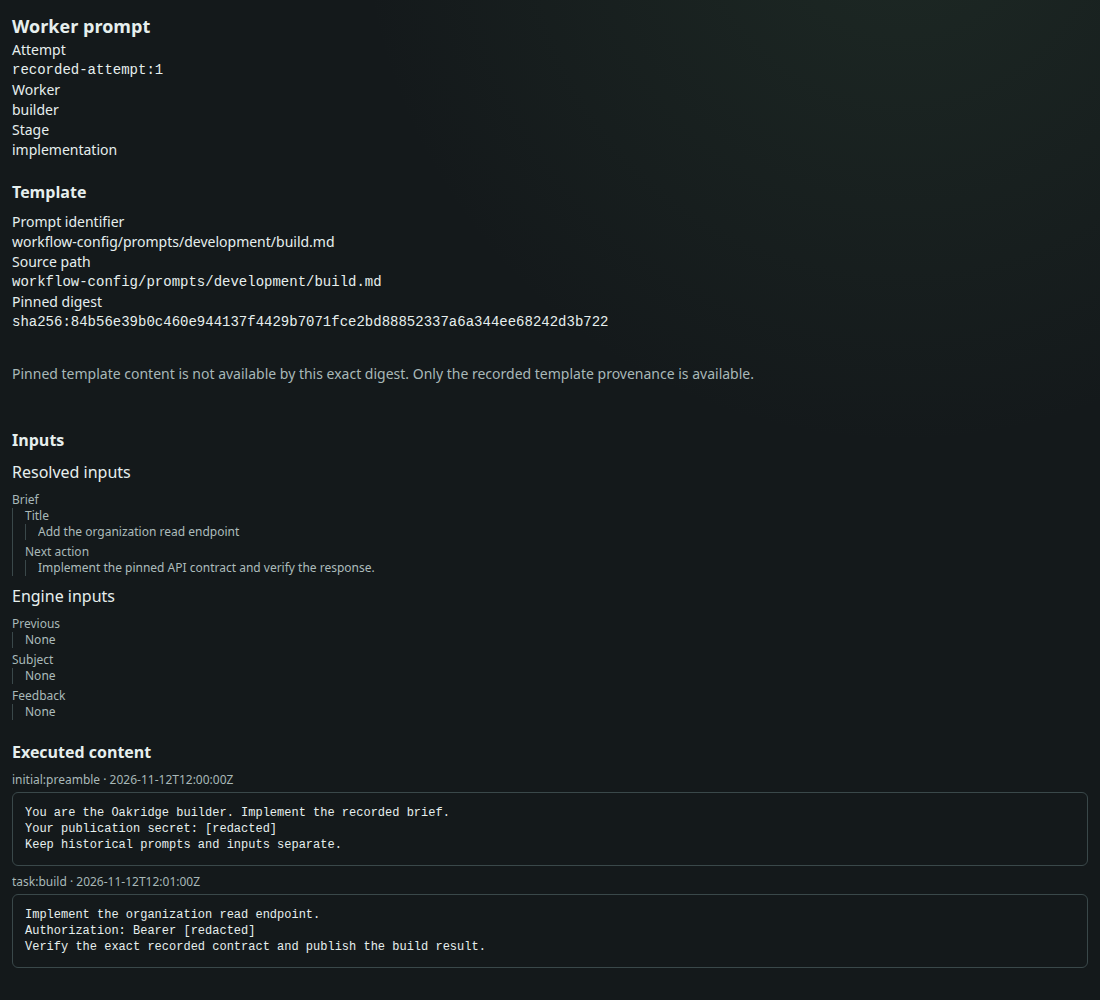
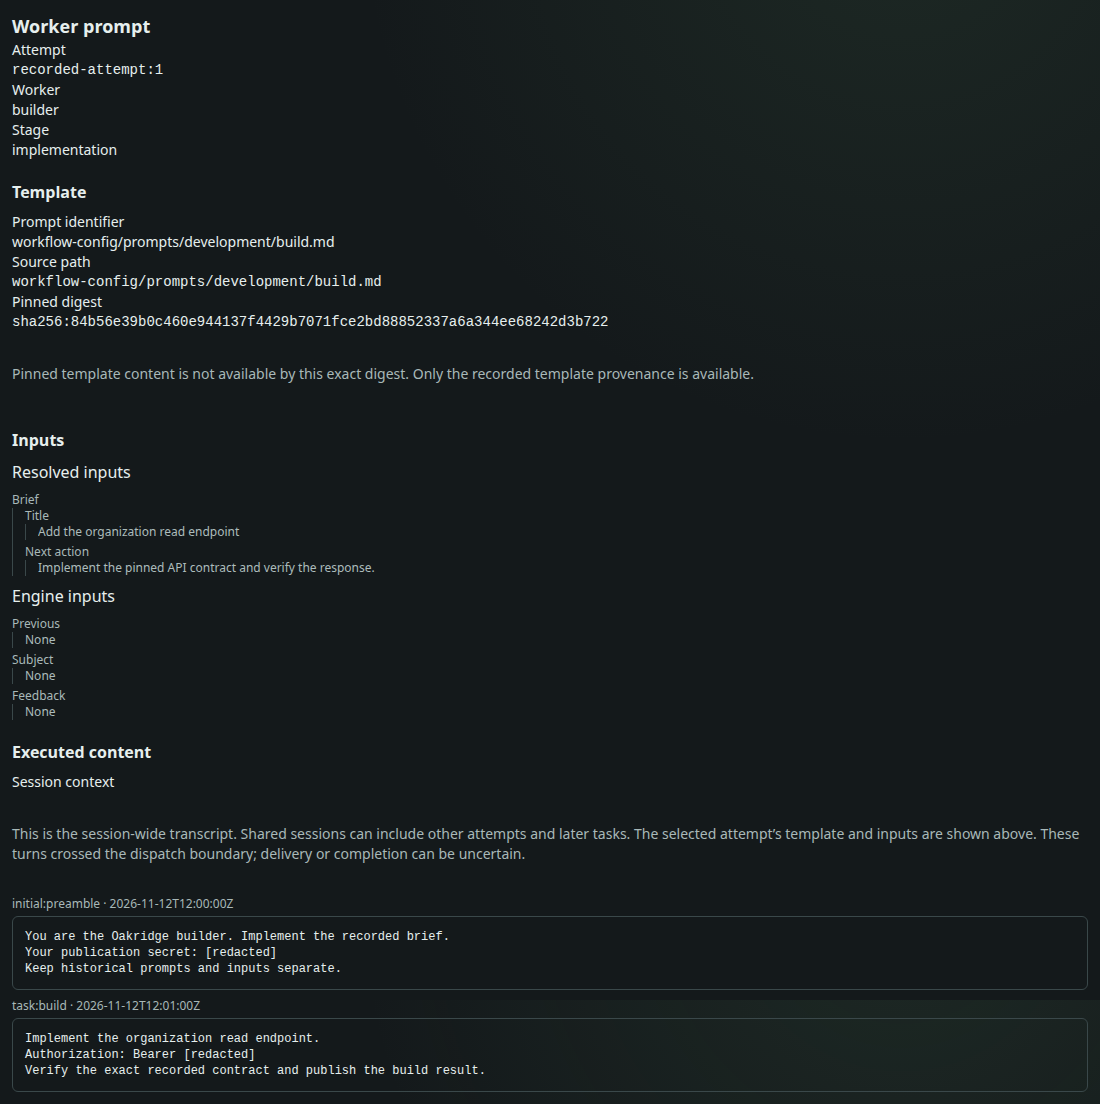
Clarify shared-session prompt context and refresh retained turns

Changed region(s): [[0.0, 0.0, 0.68, 0.713], [0.0, 0.744, 0.9891, 0.992]]

diff --git a/kbbl/core/pwa/oakridge/__tests__/prompt-viewer.test.tsx b/kbbl/core/pwa/oakridge/__tests__/prompt-viewer.test.tsx
@@ -9,18 +9,22 @@ import { readExecutedPrompt } from "../client";
 import { selectStageInputs } from "../lib/stage-overview";
 import { formatRunWorkspaceHash, readHashRoute } from "../../lib/hash";
 import { readStoredRunWorkspace, writeStoredRunWorkspace } from "../lib/run-workspace-storage";
+import type { ExecutedPromptTurn } from "../../../executed-prompt";
+import type { TurnKey } from "../../../acp/types";
 
 const base = sampleUnits.find((unit) => unit.attempts.length > 0);
 if (!base?.attempts[0]) throw new Error("Prompt fixture requires a recorded attempt");
 const attempt = { ...base.attempts[0], kbbl_session_id: "retained-session", intent: { prompt: { path: "workflow-config/prompts/build.md", digest: "pinned-old-digest" }, inputs: { brief: "recorded brief" }, engine_inputs: { previous: null, subject: null, feedback: [] } } };
 const unit = { ...base, attempts: [attempt] };
 afterEach(() => { cleanup(); vi.restoreAllMocks(); localStorage.clear(); });
-function show(has_session = true, status = 200) {
+interface PromptFixture { readonly has_session?: boolean; readonly status?: number; readonly turns?: readonly ExecutedPromptTurn[] }
+const initial: ExecutedPromptTurn = { turn_id: "initial" as TurnKey, created_at: "2026-01-01", text: "Executed worker instructions\nYour publication secret: [redacted]" };
+function show({ has_session = true, status = 200, turns = [initial] }: PromptFixture = {}) {
   const recorded = { ...unit, attempts: [{ ...attempt, kbbl_session_id: has_session ? attempt.kbbl_session_id : null }] };
   const fetcher = vi.spyOn(globalThis, "fetch").mockImplementation(async (input) => {
     const path = String(input);
     return path.includes("executed-prompt")
-      ? Response.json(status === 404 ? { error: { code: "not_retained" } } : [{ turn_id: "initial", created_at: "2026-01-01", text: "Executed worker instructions\nYour publication secret: [redacted]" }], { status })
+      ? Response.json(status === 404 ? { error: { code: "not_retained" } } : turns, { status })
       : Response.json([recorded]);
   });
   render(<QueryClientProvider client={new QueryClient({ defaultOptions: { queries: { retry: false } } })}>
@@ -43,7 +47,7 @@ it("shows three read-only sections from pinned provenance, resolved inputs and t
   expect(fetcher.mock.calls.some(([path]) => /prompts|definitions/.test(String(path)))).toBe(false);
 });
 it.each([true, false])("states not retained while preserving provenance (has session: %s)", async (has_session) => {
-  const fetcher = show(has_session, 404);
+  const fetcher = show({ has_session, status: 404 });
   await screen.findByText("Executed content was not retained for this attempt.");
   expect(screen.getByText("pinned-old-digest")).toBeTruthy();
   if (!has_session) expect(fetcher.mock.calls.some(([path]) => String(path).includes("executed-prompt"))).toBe(false);
@@ -52,9 +56,20 @@ it("does not treat authorization or service failures as not retained", async () 
   vi.spyOn(globalThis, "fetch").mockResolvedValue(Response.json({ error: { code: "unauthorized" } }, { status: 401 }));
   await expect(readExecutedPrompt("sid")).rejects.toThrow("401");
 });
-it("selects only the recorded attempt and reports a missing attempt", () => {
-  expect(selectPromptView(unit, "missing")).toBeNull();
-  expect(selectPromptView(unit, attempt.id)?.template).toEqual({ identifier: attempt.intent.prompt.path, ...attempt.intent.prompt, content: null });
+it("selects the exact recorded unit and attempt without substituting another unit's prompt", () => {
+  const newer = { ...unit, unit_id: "different-unit", attempts: [{ ...attempt, intent: { ...attempt.intent, prompt: { path: "latest.md", digest: "newer-digest" } } }] };
+  const selection = { units: [newer, unit], unit_id: unit.unit_id, attempt_id: attempt.id };
+  expect(selectPromptView({ ...selection, unit_id: "missing" })).toBeNull();
+  expect(selectPromptView({ ...selection, attempt_id: "missing" })).toBeNull();
+  expect(selectPromptView(selection)?.template).toEqual({ identifier: attempt.intent.prompt.path, ...attempt.intent.prompt, content: null });
+});
+it("labels other shared-session tasks as session context rather than selected-attempt provenance", async () => {
+  show({ turns: [initial, { turn_id: "later-task" as TurnKey, created_at: "2026-01-02", text: "Later task for another collection member" }] });
+  await screen.findByText("Later task for another collection member");
+  expect(screen.getByRole("heading", { name: "Session context" })).toBeTruthy();
+  expect(screen.getByText(/Shared sessions can include other attempts and later tasks/)).toBeTruthy();
+  expect(screen.getByText("pinned-old-digest")).toBeTruthy();
+  expect(screen.queryByText("newer-digest")).toBeNull();
 });
 it("opens the recorded prompt beside the stage overview", () => {
   const onOpen = vi.fn();

diff --git a/kbbl/core/pwa/oakridge/hooks/useExecutedPrompt.test.tsx b/kbbl/core/pwa/oakridge/hooks/useExecutedPrompt.test.tsx
@@ -1,0 +1,49 @@
+import { act, cleanup, renderHook } from "@testing-library/react";
+import { QueryClient, QueryClientProvider } from "@tanstack/react-query";
+import type { PropsWithChildren } from "react";
+import { afterEach, expect, test, vi } from "vitest";
+import { useExecutedPrompt } from "./useExecutedPrompt";
+
+const clients: QueryClient[] = [];
+function wrapper() {
+  const client = new QueryClient({ defaultOptions: { queries: { retry: false, gcTime: Infinity } } });
+  clients.push(client);
+  return ({ children }: PropsWithChildren) => <QueryClientProvider client={client}>{children}</QueryClientProvider>;
+}
+const advance = async (milliseconds: number) => act(async () => { await vi.advanceTimersByTimeAsync(milliseconds); });
+afterEach(() => { cleanup(); clients.forEach((client) => client.clear()); clients.length = 0; vi.useRealTimers(); vi.restoreAllMocks(); });
+
+test("an open prompt transcript refreshes when later shared-session turns arrive", async () => {
+  vi.useFakeTimers();
+  let hasLaterTask = false;
+  vi.spyOn(globalThis, "fetch").mockImplementation(async () => Response.json([
+    { turn_id: "initial", created_at: "2026-01-01", text: "Retained preamble" },
+    ...(hasLaterTask ? [{ turn_id: "later-task", created_at: "2026-01-02", text: "Later task" }] : []),
+  ]));
+  const hook = renderHook(() => useExecutedPrompt("session"), { wrapper: wrapper() });
+  await advance(1);
+  expect(hook.result.current.data).toMatchObject({ state: "retained", turns: [{ turn_id: "initial" }] });
+  hasLaterTask = true;
+  await advance(10_001);
+  expect(hook.result.current.data).toMatchObject({ state: "retained", turns: [{ turn_id: "initial" }, { turn_id: "later-task" }] });
+});
+test("an open prompt recovers from not_retained after queued content crosses the dispatch boundary", async () => {
+  vi.useFakeTimers();
+  let isDispatched = false;
+  vi.spyOn(globalThis, "fetch").mockImplementation(async () => isDispatched
+    ? Response.json([{ turn_id: "initial", created_at: "2026-01-01", text: "Dispatched preamble" }])
+    : Response.json({ error: { code: "not_retained" } }, { status: 404 }));
+  const hook = renderHook(() => useExecutedPrompt("session"), { wrapper: wrapper() });
+  await advance(1);
+  expect(hook.result.current.data).toEqual({ state: "not_retained" });
+  isDispatched = true;
+  await advance(10_001);
+  expect(hook.result.current.data).toMatchObject({ state: "retained", turns: [{ text: "Dispatched preamble" }] });
+});
+test("prompt polling stays idle when the attempt has no retained session", async () => {
+  vi.useFakeTimers();
+  const fetch = vi.spyOn(globalThis, "fetch");
+  renderHook(() => useExecutedPrompt(null), { wrapper: wrapper() });
+  await advance(30_000);
+  expect(fetch).not.toHaveBeenCalled();
+});

diff --git a/kbbl/core/pwa/oakridge/components/organisms/PromptViewer.tsx b/kbbl/core/pwa/oakridge/components/organisms/PromptViewer.tsx
@@ -7,8 +7,7 @@ import { StructuredValue } from "../molecules/StructuredValue";
 interface Props { runId: string; unitId: string; attemptId: string }
 export function PromptViewer({ runId, unitId, attemptId }: Props) {
   const units = useOperatorUnits(runId);
-  const unit = units.data?.find((candidate) => candidate.unit_id === unitId);
-  const view = unit ? selectPromptView(unit, attemptId) : null;
+  const view = selectPromptView({ units: units.data ?? [], unit_id: unitId, attempt_id: attemptId });
   const executed = useExecutedPrompt(view?.session_id ?? null);
   if (units.isError) return <FeedbackMessage tone="danger">Prompt provenance unavailable.</FeedbackMessage>;
   if (!units.data) return <FeedbackMessage>Loading prompt provenance…</FeedbackMessage>;
@@ -38,8 +37,10 @@ export function PromptViewerContent({ view, executed, isExecutedError = false }:
       {isExecutedError ? <FeedbackMessage tone="danger">Executed content unavailable: the session read failed.</FeedbackMessage>
         : executed === null ? <FeedbackMessage>Loading executed content…</FeedbackMessage>
         : executed.state === "not_retained" ? <FeedbackMessage>Executed content was not retained for this attempt.</FeedbackMessage>
-        : executed.turns.map((turn) => <div key={turn.turn_id} className="flex flex-col gap-1"><h4 className="break-all text-xs text-[var(--text-muted)]">{turn.turn_id} · {turn.created_at}</h4>
-          <pre className="m-0 whitespace-pre-wrap break-words rounded-md border border-[var(--border-decorative)] p-3 text-xs">{turn.text}</pre></div>)}
+        : <><h4 className="m-0 text-sm font-medium">Session context</h4>
+          <FeedbackMessage>This is the session-wide transcript. Shared sessions can include other attempts and later tasks. The selected attempt’s template and inputs are shown above. These turns crossed the dispatch boundary; delivery or completion can be uncertain.</FeedbackMessage>
+          {executed.turns.map((turn) => <div key={turn.turn_id} className="flex flex-col gap-1"><h5 className="m-0 break-all text-xs text-[var(--text-muted)]">{turn.turn_id} · {turn.created_at}</h5>
+            <pre className="m-0 whitespace-pre-wrap break-words rounded-md border border-[var(--border-decorative)] p-3 text-xs">{turn.text}</pre></div>)}</>}
     </section>
   </article>;
 }

diff --git a/kbbl/core/pwa/oakridge/__tests__/grading-detail.test.tsx b/kbbl/core/pwa/oakridge/__tests__/grading-detail.test.tsx
@@ -17,11 +17,14 @@ const references: ObservationEvidenceReference[] = [
 ];
 const definition: ObservationEvaluatorDefinition = { evaluator_definition_id: "jev", kind: "model", backend_kind: "pinned-runner", provider: "fixture", model: "pinned-model", prompt_digest: "pinned-prompt", instruction_text: "Pinned historical instructions: inspect the exact cited revision.", config_digest: "old-config", runtime_revision: "old-runtime", cost_metadata: null, seed: null, attempt_controls: null };
 function withDefinitions(status = 200) {
-  const base = vi.mocked(globalThis.fetch).getMockImplementation()!;
+  const base = vi.mocked(globalThis.fetch).getMockImplementation();
+  if (!base) throw new Error("Grading fixture requires the item-panel fetch harness");
   vi.mocked(globalThis.fetch).mockImplementation(async (input, init) => {
     if (String(input).includes("/evaluator-definitions/")) {
       world.paths.push(String(input));
-      const evaluatorId = decodeURIComponent(String(input).split("/").at(-1)!);
+      const pathId = String(input).split("/").at(-1);
+      if (!pathId) throw new Error("Evaluator fixture requires a definition id in the request path");
+      const evaluatorId = decodeURIComponent(pathId);
       return status === 404 ? json({ error: { code: "not_found" } }, 404) : json({ ...definition, evaluator_definition_id: evaluatorId });
     }
     return base(input, init);
@@ -45,7 +48,8 @@ it("makes all four provenance classes inspectable with their recorded locations 
   const rows = await screen.findAllByTestId("or-item-evidence-reference");
   expect(rows.map((row) => row.getAttribute("data-provenance"))).toEqual(["artifact_revision", "run_input", "repository_file_at_commit", "agent_reported"]);
   for (const [index, reference] of references.entries()) {
-    const row = rows[index]!;
+    const row = rows[index];
+    if (!row) throw new Error(`Evidence fixture requires a rendered reference at index ${index}`);
     expect(within(row).getByText(index === 3 ? "Reported" : "Independently retrieved")).toBeTruthy();
     expect(row.querySelector(`[aria-label="Evidence content: ${reference.ref}"]`)?.textContent).toContain(String(reference.content));
   }

diff --git a/kbbl/tests/browser/prompt-and-grading-browser.test.ts b/kbbl/tests/browser/prompt-and-grading-browser.test.ts
@@ -61,6 +61,8 @@ test("prompt and grading detail browser handoff", async () => {
     page.on("pageerror", (error) => errors.push(error));
     await page.goto(`${server.url.href}?prompt&unit=${encodeURIComponent(unit.unit_id)}`);
     await page.getByText("Authorization: Bearer [redacted]", { exact: false }).waitFor();
+    expect(await page.getByRole("heading", { name: "Session context" }).count()).toBe(1);
+    expect(await page.getByText("Shared sessions can include other attempts and later tasks.", { exact: false }).count()).toBe(1);
     expect(await page.getByRole("region").count()).toBe(3);
     expect(await page.getByRole("textbox").count()).toBe(0);
     if (screenshots) { mkdirSync(screenshots, { recursive: true }); await page.screenshot({ path: join(screenshots, "prompt-viewer.png"), fullPage: true }); }

diff --git a/kbbl/core/pwa/oakridge/lib/prompt-view.ts b/kbbl/core/pwa/oakridge/lib/prompt-view.ts
@@ -10,7 +10,14 @@ export interface PromptView {
   readonly inputs: OperatorAttemptView["intent"];
   readonly session_id: string | null;
 }
-export function selectPromptView(unit: OperatorUnitView, attempt_id: string): PromptView | null {
+interface PromptSelection {
+  readonly units: readonly OperatorUnitView[];
+  readonly unit_id: string;
+  readonly attempt_id: string;
+}
+export function selectPromptView({ units, unit_id, attempt_id }: PromptSelection): PromptView | null {
+  const unit = units.find((candidate) => candidate.unit_id === unit_id);
+  if (!unit) return null;
   const attempt = unit.attempts.find((candidate) => candidate.id === attempt_id);
   if (!attempt) return null;
   const prompt = attempt.intent?.prompt;

diff --git a/kbbl/core/pwa/oakridge/hooks/useExecutedPrompt.ts b/kbbl/core/pwa/oakridge/hooks/useExecutedPrompt.ts
@@ -3,5 +3,5 @@ import { readExecutedPrompt } from "../client";
 
 export function useExecutedPrompt(session_id: string | null) {
   return useQuery({ queryKey: ["oakridge", "executed-prompt", session_id],
-    queryFn: session_id === null ? skipToken : () => readExecutedPrompt(session_id), retry: false, staleTime: Infinity });
+    queryFn: session_id === null ? skipToken : () => readExecutedPrompt(session_id), retry: false, refetchInterval: 10_000 });
 }
